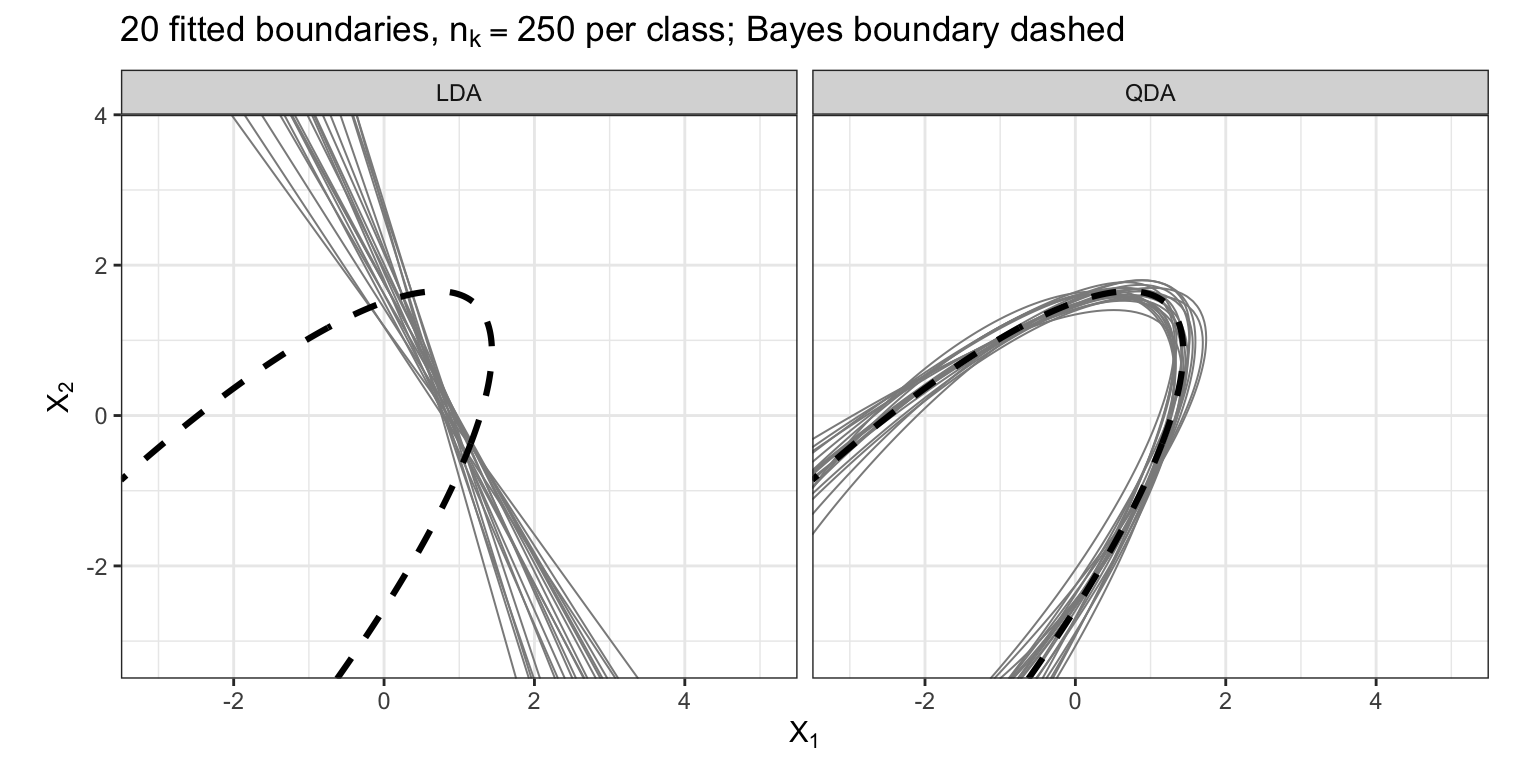
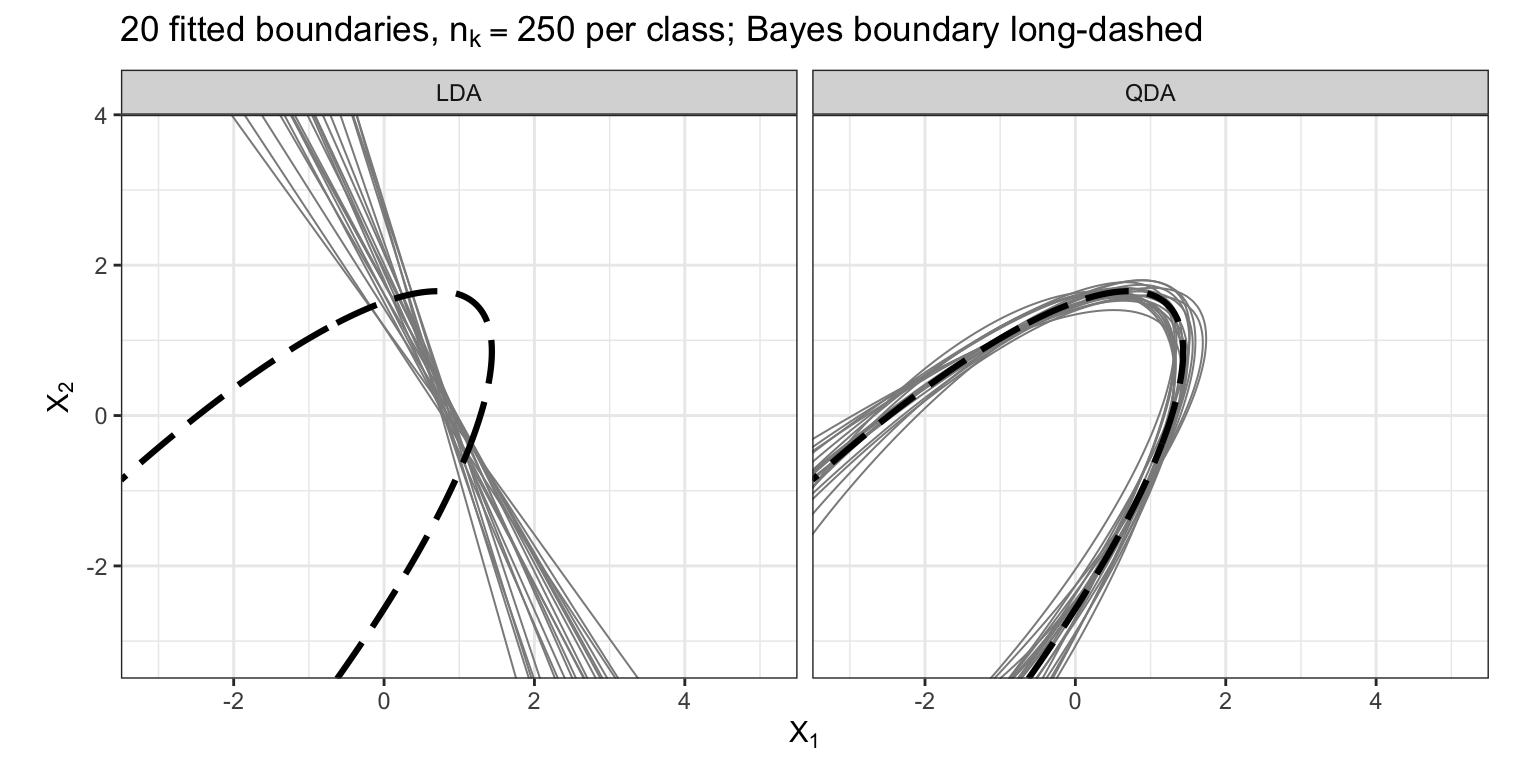
QDA chapter: make split-dependent claims robust, fix naive Bayes income term, tidy intros

diff --git a/tutor/DS3030-tutor.md b/tutor/DS3030-tutor.md
@@ -601,8 +601,9 @@ chapter), and it stays higher at equal incomes. The extra flexibility barely
 changes training error or AUC, and the stratified models, with twice as many
 parameters, tend to have more optimistic training rates.
 
-All rates are training rates; test-error estimation is
-deferred to resampling. QDA and naive Bayes are the next chapter.
+All rates are training rates; estimating test error from
+the training data alone is deferred to resampling. QDA and naive Bayes are the next chapter,
+which evaluates on held-out customers.
 
 ### 14. Quadratic Discriminant Analysis and Naive Bayes
 <https://jarad.github.io/DS3030/04-classification/60-qda-naive-bayes.html>
@@ -657,22 +658,23 @@ $\texttt{balance}^2$ is negative, so its posterior crosses 0.5 twice at a
 fixed income, the second crossing far beyond the training balances (naive
 Bayes's too); its boundary depends on income as well as balance. Naive
 Bayes, having dropped the within-class correlation, gives income a term that
-follows only the raw class difference in mean income, unlike LDA's
+compares the classes' income distributions without adjusting for balance
+(slightly curved, since the class income SDs differ), unlike LDA's
 correlation-adjusted income slope. On the test set the four
 model-based classifiers have nearly identical error rates and AUCs (naive
-Bayes close to QDA), KNN with $K = 71$ has a lower test AUC than any of them,
-and KNN with $K = 1$ has zero training error but the worst test error,
-illustrating why training error rates are optimistic. A final **student
+Bayes close to QDA), differing mainly in how many customers each flags at
+$t = 0.5$ and so in sensitivity; KNN with $K = 71$ has a lower test AUC than
+any of them, and KNN with $K = 1$ has zero training error but a much higher
+test error, illustrating why training error rates are optimistic. A final **student
 strata** subsection fits QDA separately to students and non-students and
 compares it with the single QDA, the additive logistic regression, and the
 logistic regression with every coefficient interacted with student status
 (shown numerically to equal separate per-stratum logistic fits); stratifying
 doubles the parameters (priors not counted, as in the chapter's
 parameter-count table) without meaningfully changing test error rates or
-AUCs. The chapter stresses that training error rates are optimistic in
-expectation, though on a single split chance can outweigh that (here the
-training half drew more defaulters), that test rates are the fair
-comparison, and that a single split is one draw.
+AUCs. The chapter stresses that training error rates are optimistic on
+average, though on a single split chance can outweigh that, that test rates
+are the fair comparison, and that a single split is one draw.
 
 ### 15. Generalized Linear Models
 <https://jarad.github.io/DS3030/04-classification/70-generalized-linear-models.html>
